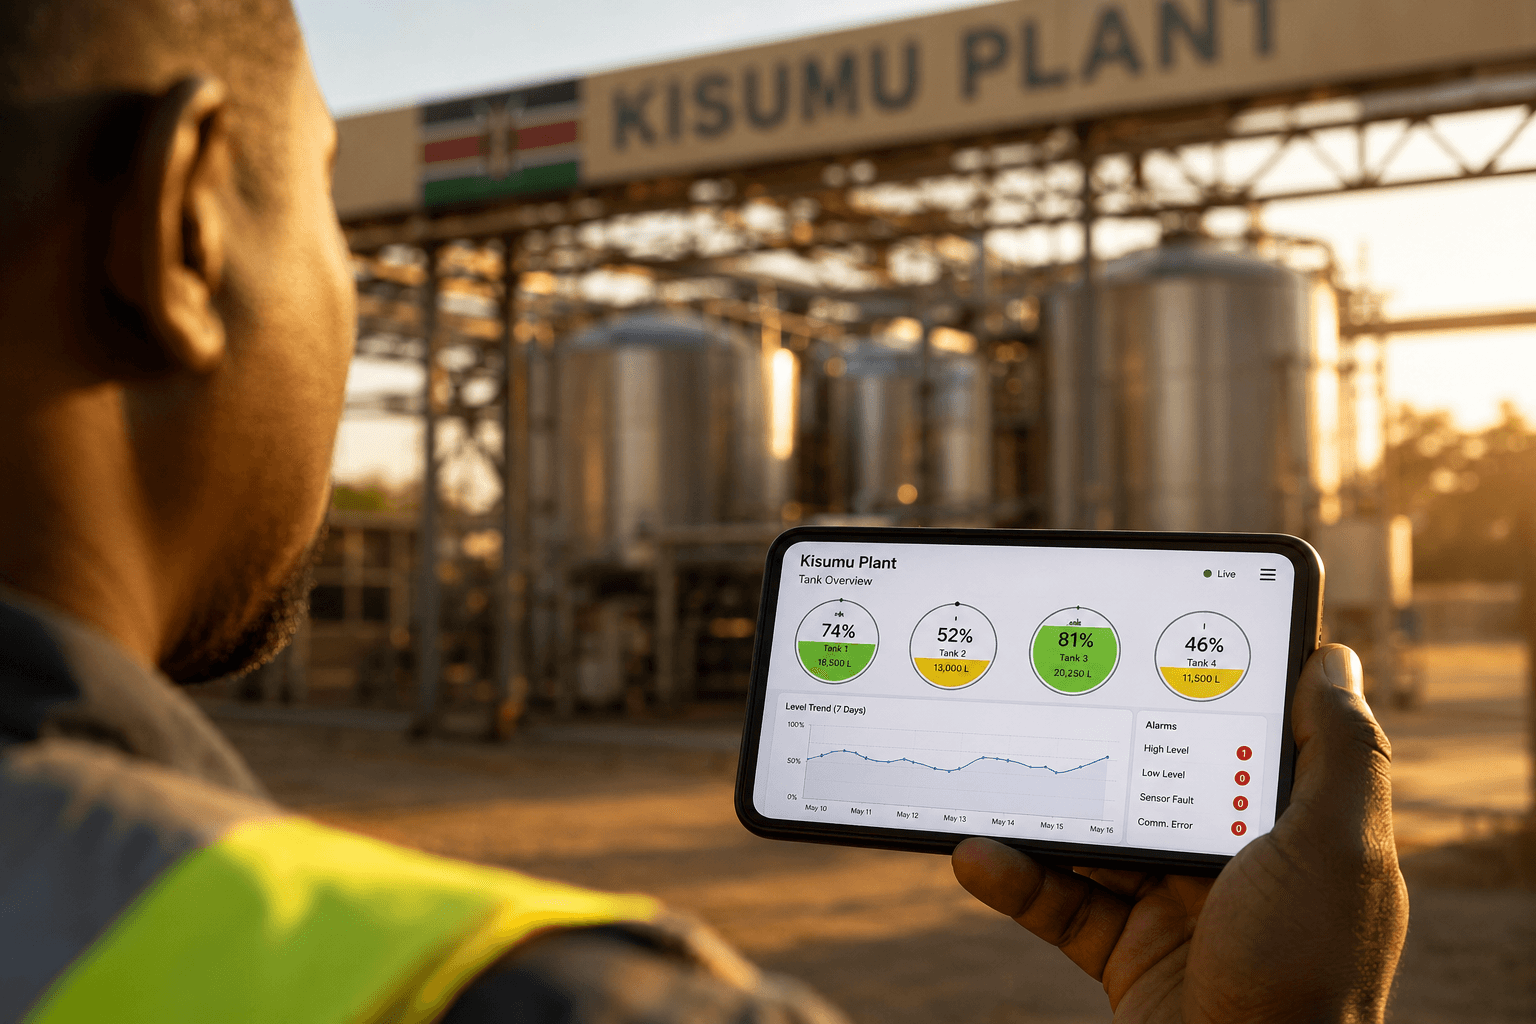
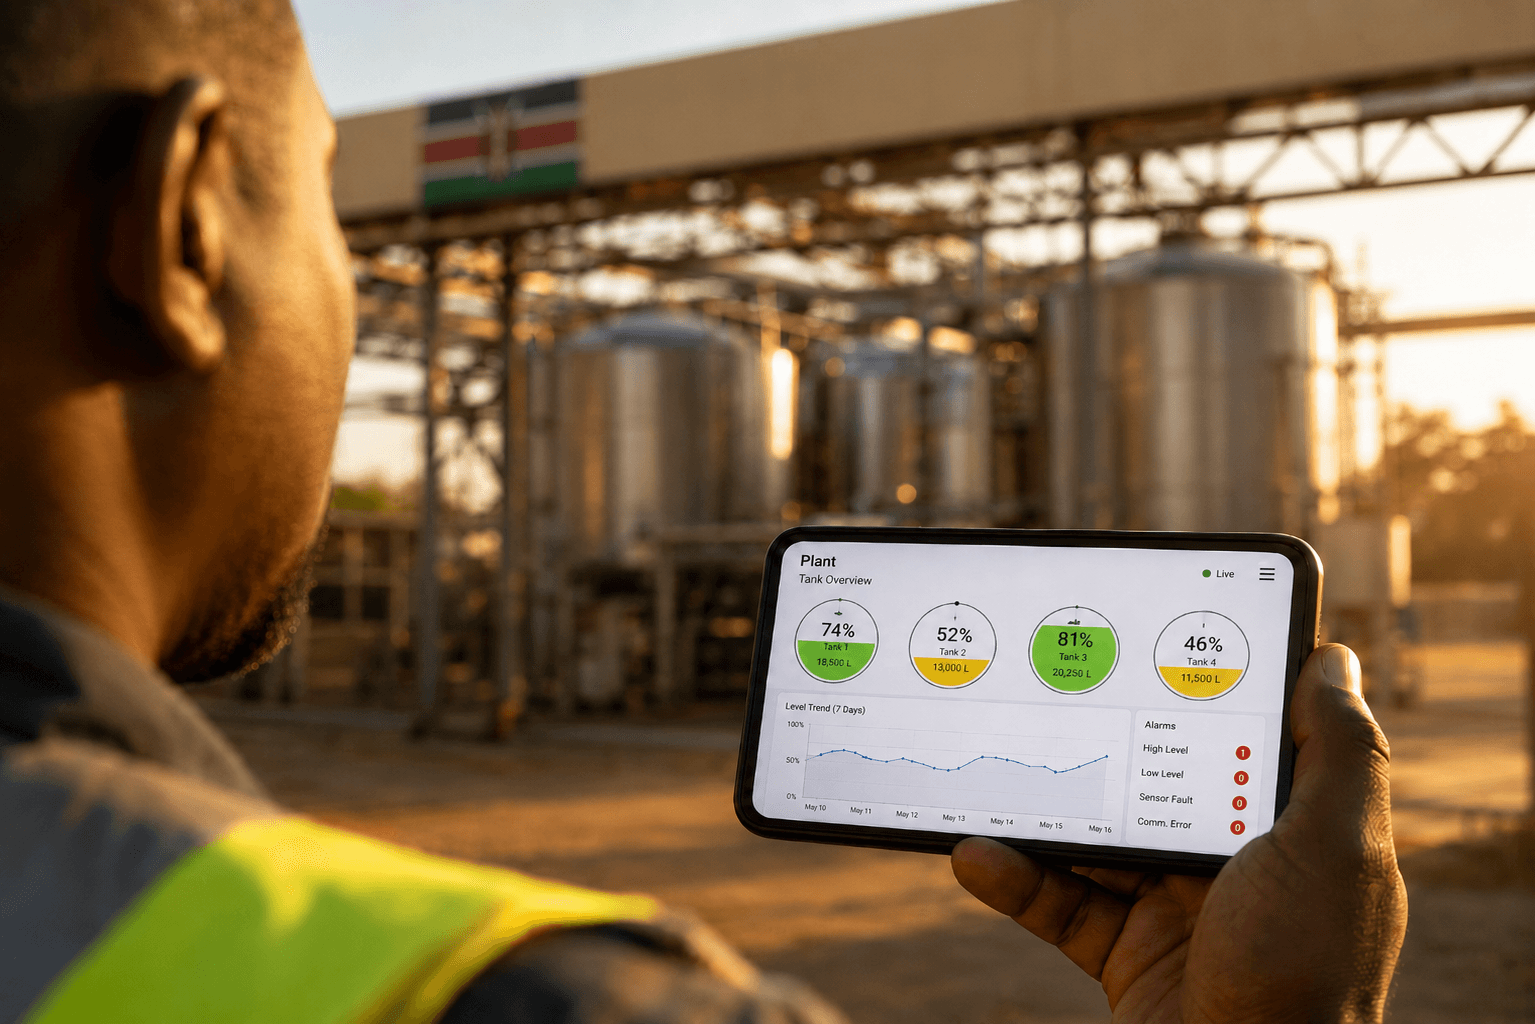
feat(brand): new tagline "Made in Kenya, made for East Africa" + IoT image
Per business direction:

- Flip the brand tagline everywhere from "Built in East Africa for Kenya"
  to "Made in Kenya, made for East Africa" (homepage hero with red accent
  on the second clause, footer, SITE_DESCRIPTION constant, about page
  metadata + OG block, llms positioning copy follows in a separate
  commit). Footer logo also restored to intrinsic dimensions per user
  preference.
- Replace the Kisumu plant photo on the homepage IoT card with a new
  tablet-with-tanks shot. Sharp-compressed in-place from 1.84 MB to
  526 KB (~71% smaller) at the same path so no link rot. Alt text
  updated to drop the "Kisumu" location and read generically.
- Stash the original full-resolution source in brand/ so the optimised
  copy can be regenerated.

diff --git a/src/app/(marketing)/page.tsx b/src/app/(marketing)/page.tsx
@@ -10,7 +10,7 @@ import { cn } from "@/lib/utils";
 const TRUST_TOKENS = [
   "Fabricated in Kenya",
   "Stainless, epoxy, zinc-alum",
-  "NEMA-aware ETP equipment",
+  "compliance-aware ETP equipment",
   "Optional cloud-ready monitoring",
   "On-site within 48 hours, Nairobi",
   "Reference work across Kenya",
@@ -31,7 +31,7 @@ const INDUSTRIES = [
     n: "02",
     name: "ETP & Water Treatment",
     href: "/industries/etp-water-treatment/",
-    pillar: "NEMA compliance, EMCA CAP 387, discharge parameters",
+    pillar: "Kenyan environmental compliance, discharge parameters",
     products: "Epoxy-lined · SS · Multi-parameter analyzers · Flow",
     image: "/images/home/sector-etp.png",
     imageAlt:
@@ -107,9 +107,9 @@ export default function Home() {
                   <span>Nairobi · Kenya</span>
                 </div>
                 <h1 className="font-display text-balance text-[clamp(2.5rem,5.5vw,5.5rem)] font-medium leading-[0.98] tracking-tight text-white">
-                  Made in East Africa.{" "}
+                  Made in Kenya,{" "}
                   <br className="hidden sm:block" />
-                  <span className="text-accent">Built for Kenya.</span>
+                  <span className="text-accent">made for East Africa.</span>
                 </h1>
                 <div className="flex flex-wrap items-center gap-2 pt-1">
                   {["Tanks", "Silos", "Structural", "Instruments", "Monitoring"].map(
@@ -148,7 +148,7 @@ export default function Home() {
             {/* BOTTOM credential strip */}
             <div className="font-mono-label mt-auto flex flex-col gap-2 text-[10px] text-white/65 md:flex-row md:items-end md:justify-between">
               <span>Serving Kenya, every county.</span>
-              <span>NEMA-aware · KEBS-fluent · Safaricom NB-IoT capable</span>
+              <span>compliance-aware · KEBS-fluent · NB-IoT capable</span>
             </div>
           </div>
         </div>
@@ -268,12 +268,12 @@ export default function Home() {
               <BentoCard
                 href="/products/iot/"
                 title="Remote Monitoring"
-                tagline="Optional · Safaricom NB-IoT capable"
+                tagline="Optional · NB-IoT capable"
                 copy="Cloud-connected oversight on every install: tank levels, flow, water quality, alarms from any device. Not bundled; ask for it when you want it."
                 stat="LoRa · NB-IoT · LTE · Ethernet"
                 className="col-span-6 row-span-1 md:col-span-3"
                 imageSrc="/images/home/iot-kisumu-plant.png"
-                imageAlt="Plant operator holding a phone displaying a tank-monitoring dashboard outside a Kisumu plant"
+                imageAlt="Plant manager reviewing a live tank-monitoring dashboard on a tablet outside a Kenyan industrial plant"
                 data-reveal-item
               />
             </div>

diff --git a/src/app/(marketing)/about/page.tsx b/src/app/(marketing)/about/page.tsx
@@ -12,20 +12,20 @@ import { CtaBand, DEFAULT_CTA_CARDS } from "@/components/primitives/cta-band";
 export const metadata: Metadata = {
   title: "About: A Kenya-Based Tank Manufacturer",
   description:
-    "A Kenya-based industrial infrastructure brand fabricating tanks, silos, structural steel, and process instruments locally. Built in East Africa for Kenya.",
+    "A Kenya-based industrial infrastructure brand fabricating tanks, silos, structural steel, and process instruments locally. Made in Kenya, made for East Africa.",
   alternates: { canonical: "/about/" },
   keywords: [
     "tank manufacturer Kenya",
     "industrial fabrication Kenya",
     "Kenya-based tank supplier",
     "Nairobi industrial brand",
-    "Built in East Africa",
+    "Made in Kenya",
   ],
   openGraph: {
     type: "website",
     title: "About: A Kenya-Based Tank Manufacturer",
     description:
-      "A Kenya-based industrial infrastructure brand fabricating tanks, silos, structural steel, and process instruments locally. Built in East Africa for Kenya.",
+      "A Kenya-based industrial infrastructure brand fabricating tanks, silos, structural steel, and process instruments locally. Made in Kenya, made for East Africa.",
     url: "/about/",
     images: [{ url: "/images/about/about-hero.png" }],
   },

diff --git a/src/components/layout/site-footer.tsx b/src/components/layout/site-footer.tsx
@@ -62,11 +62,11 @@ export function SiteFooter() {
             alt={SITE_NAME}
             width={215}
             height={94}
-            className="h-10 w-auto sm:h-12 md:h-14"
+            className=""
           />
           <p className="font-display max-w-md text-balance text-xl font-medium leading-tight tracking-tight sm:text-2xl md:text-3xl">
-            Built in East Africa{" "}
-            <span className="text-accent">for Kenya</span>.
+            Made in Kenya,{" "}
+            <span className="text-accent">made for East Africa</span>.
           </p>
         </div>
 

diff --git a/src/app/(marketing)/products/page.tsx b/src/app/(marketing)/products/page.tsx
@@ -68,10 +68,10 @@ const CATEGORIES = [
   {
     href: "/products/iot/",
     title: "Remote Monitoring",
-    tagline: "Optional · Safaricom NB-IoT capable",
+    tagline: "Optional · NB-IoT capable",
     copy: "Cloud-connected oversight on any tank or instrument we install. Levels, flow, water quality, and alarms from any device.",
     imageSrc: "/images/home/iot-kisumu-plant.png",
-    imageAlt: "Plant operator viewing a tank-monitoring dashboard on a phone",
+    imageAlt: "Plant manager reviewing a live tank-monitoring dashboard on a tablet at a Kenyan industrial plant",
   },
 ];
 

diff --git a/src/lib/constants.ts b/src/lib/constants.ts
@@ -2,7 +2,7 @@ export const SITE_URL =
   process.env.NEXT_PUBLIC_SITE_URL ?? "https://northstarimpex.co.ke";
 export const SITE_NAME = "North Star Impex Kenya";
 export const SITE_DESCRIPTION =
-  "Industrial tanks, silos, structural works, and process instruments. Built in East Africa for Kenya.";
+  "Industrial tanks, silos, structural works, and process instruments. Made in Kenya, made for East Africa.";
 export const CONTACT_EMAIL =
   process.env.CONTACT_EMAIL ?? "[email redacted]";
 export const CONTACT_PHONE = process.env.CONTACT_PHONE ?? "[phone redacted]";